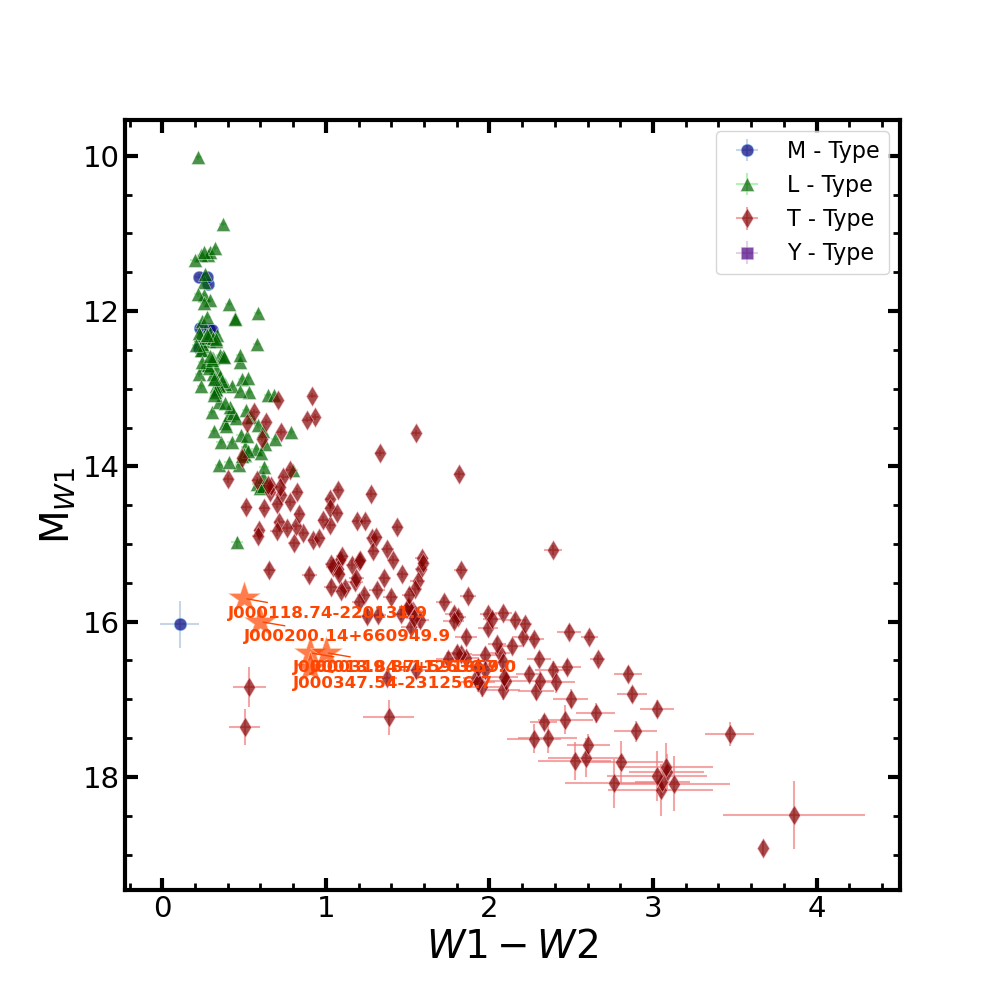
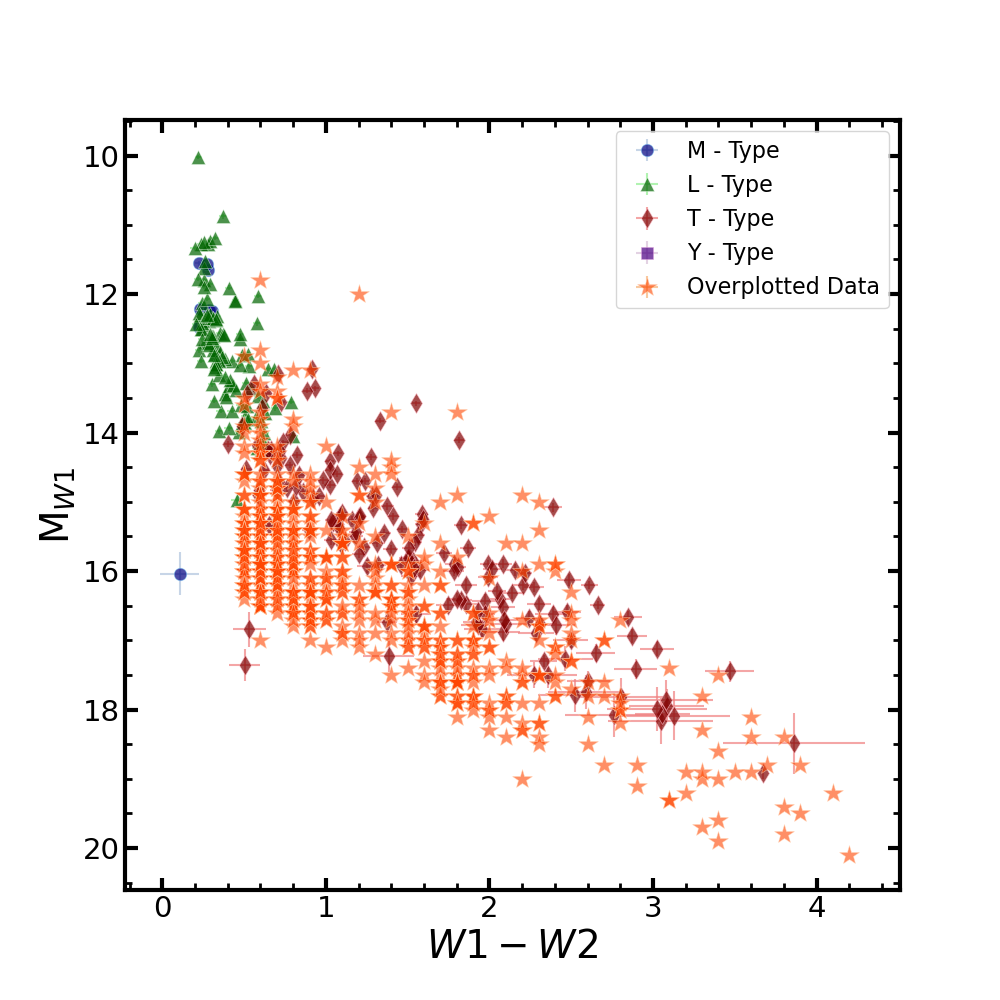
Made allWISE figure with overplotted data

diff --git a/main.py b/main.py
@@ -14,12 +14,12 @@ def main():
     """
 
     csvfilepath = "/Users/samantha/OneDrive - The University of Western Ontario/Research Summer 2021/CatWISE Planemos.csv"
-    fileanalysis(csvfilepath, photometry='allwise')
+    fileanalysis(csvfilepath, photometry='allwise', annotate=False)
     return
 
 #---------------------------------------
 
-def cmdplot(m, l, t, y, overplot, photometry):
+def cmdplot(m, l, t, y, overplot, photometry, annotate):
 #def cmdplot(m, l, t, y, photometry):
     """
     This code plots a CMD of the data inputted.
@@ -48,13 +48,14 @@ def cmdplot(m, l, t, y, overplot, photometry):
     if len(overplot) == 0:
         placeholder = 1
     else:
-        plt.errorbar(overplot[0:5,1].astype('float64'), overplot[0:5,0].astype('float64'), overplot[0:5,3].astype('float64'), overplot[0:5,2].astype('float64'), color='orangered', marker='*', ecolor='sandybrown', ls='none', mec='peachpuff', ms=24, mew=0.5,alpha=0.7)
+        plt.errorbar(overplot[:,1].astype('float64'), overplot[:,0].astype('float64'), overplot[:,3].astype('float64'), overplot[:,2].astype('float64'), color='orangered', marker='*', ecolor='sandybrown', ls='none', mec='peachpuff', ms=15, mew=0.5,alpha=0.6, label= "Overplotted Data")
         # Label the overplotted data points
-        nameover = overplot[0:5,4]
-        x = overplot[0:5,1].astype('float64')
-        y = overplot[0:5,0].astype('float64')
-        for i, txt in enumerate(nameover):
-            ax.annotate(txt, (x[i],y[i]), xytext = (x[i]-0.1, y[i]+0.25), arrowprops=dict(color="orangered", arrowstyle="-"), fontsize=12, fontweight='bold', color="orangered")
+        nameover = overplot[:,4]
+        x = overplot[:,1].astype('float64')
+        y = overplot[:,0].astype('float64')
+        if annotate == True:
+            for i, txt in enumerate(nameover):
+                ax.annotate(txt, (x[i],y[i]), xytext = (x[i]-0.1, y[i]+0.25), arrowprops=dict(color="orangered", arrowstyle="-"), fontsize=12, fontweight='bold', color="orangered")
     
     if photometry == "ALLWISE":
         plt.legend(loc="upper right", prop={'size': 16})
@@ -95,7 +96,7 @@ def cmdplot(m, l, t, y, overplot, photometry):
 
 
 #def fileanalysis(photometry="MKO"):
-def fileanalysis(inputfilepath=None, photometry = "MKO"):
+def fileanalysis(inputfilepath=None, photometry="MKO", annotate=True):
     """
     This function takes in files with data to plot, breaks it into the proper catagories, 
     then calls the plotting function.
@@ -103,6 +104,7 @@ def fileanalysis(inputfilepath=None, photometry = "MKO"):
     Inputs:
     inputfilepath         File path to csv with data for overplotting.
     photometry            Photometry data to use in plotting -- "MKO", "2MASS" or "ALLWISE". "MKO" is the defult.
+    annotate              Boolean. If True, overplot data will be annotated with object name in plot. True is the defult.
 
     Outputs:
     None
@@ -410,23 +412,31 @@ def fileanalysis(inputfilepath=None, photometry = "MKO"):
             ew12magover = np.zeros(len(w12magover))
             overplot = np.vstack((w1magover, w12magover, ew1magover, ew12magover, namesover)).T
 
+
         elif photometry == "MKO":
-            jmagover = np.array(overplotdata[:, 1])
-            jkmagover = np.array(overplotdata[:, 3])
-            ejmagover = np.array(overplotdata[:, 2])
-            ejkmagover = np.array(overplotdata[:, 4])
+            jmagover = np.array(overplotdata[:, 53])
+            kmagover = np.array(overplotdata[:, 56])
+            ejmagover = np.array(overplotdata[:, 54])
+            ekmagover = np.array(overplotdata[:, 57])
+
+            jkmagover = jmagover - kmagover
+            ejkmagover = np.sqrt(ejmagover**2 + ekmagover**2)
             overplot = np.vstack((jmagover, jkmagover, ejmagover, ejkmagover, namesover)).T
+
 
         elif photometry == "2MASS":
-            jmagover = np.array(overplotdata[:, 1])
-            jkmagover = np.array(overplotdata[:, 3])
-            ejmagover = np.array(overplotdata[:, 2])
-            ejkmagover = np.array(overplotdata[:, 4])
+            jmagover = np.array(overplotdata[:, 53])
+            kmagover = np.array(overplotdata[:, 56])
+            ejmagover = np.array(overplotdata[:, 54])
+            ekmagover = np.array(overplotdata[:, 57])
+
+            jkmagover = jmagover - kmagover
+            ejkmagover = np.sqrt(ejmagover**2 + ekmagover**2)
             overplot = np.vstack((jmagover, jkmagover, ejmagover, ejkmagover, namesover)).T
 
 
 
-    cmdplot(m, l, t, y, overplot, photometry)
+    cmdplot(m, l, t, y, overplot, photometry, annotate)
     #cmdplot(m, l, t, y, photometry)
 
     return
